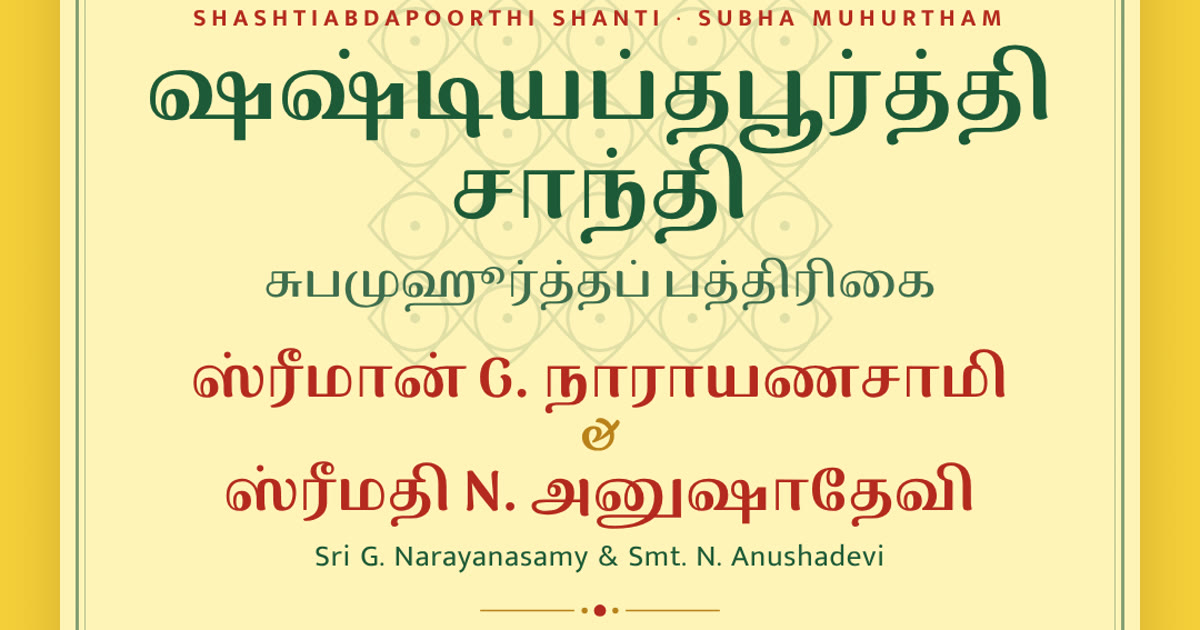
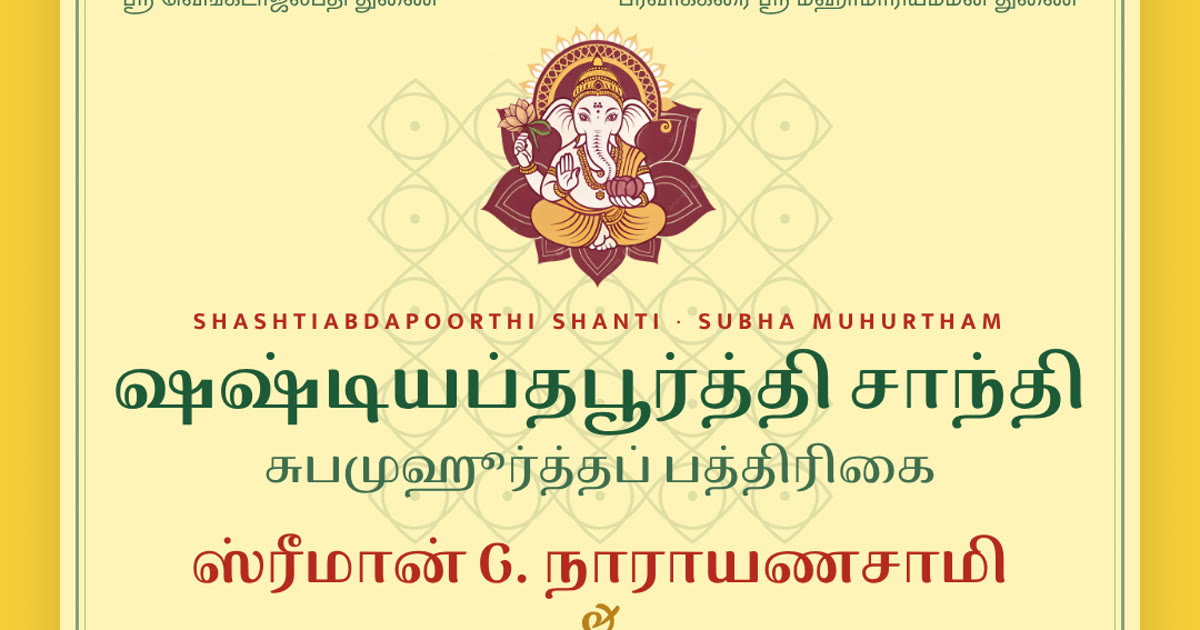
Vinayak

Changed region(s): [[0.0925, 0.0, 0.925, 1.0]]

diff --git a/index.html b/index.html
@@ -70,9 +70,9 @@ main{max-width:720px;margin:0 auto;position:relative;z-index:2;display:flex;flex
 .kolam circle.dot{fill:var(--ink);stroke:none}
 .kolam .draw{stroke-dasharray:var(--len);stroke-dashoffset:0;animation:draw 3.2s ease-out both}
 @keyframes draw{from{stroke-dashoffset:var(--len)}}
-.lamp{width:128px;height:auto;position:relative}
-.ganesha .halo{transform-origin:70px 70px;animation:halo 3.5s ease-in-out infinite}
-@keyframes halo{50%{transform:scale(1.08);opacity:.75}}
+.lamp{width:220px;max-width:70%;height:auto;position:relative;filter:drop-shadow(0 4px 10px rgba(120,40,40,.15))}
+.ganesha .rays{transform-origin:100px 84px;animation:spin 80s linear infinite}
+@keyframes spin{to{transform:rotate(360deg)}}
 .flame{transform-origin:50% 100%;animation:flick 1.6s ease-in-out infinite}
 .flame:nth-of-type(2){animation-delay:.3s}.flame:nth-of-type(3){animation-delay:.6s}
 @keyframes flick{0%,100%{transform:scale(1,1)}40%{transform:scale(.92,1.08) skewX(2deg)}70%{transform:scale(1.04,.95) skewX(-2deg)}}
@@ -209,45 +209,7 @@ footer .u{font-family:var(--display);color:var(--kumkum);font-size:18px}
       <div><small>பரவாக்கரை ஸ்ரீ மஹாமாரியம்மன் துணை</small></div>
     </div>
 
-    <svg class="lamp ganesha" viewBox="0 0 140 150" aria-label="Vinayakar" role="img">
-  <defs>
-    <linearGradient id="gold" x1="0" x2="1"><stop offset="0" stop-color="#A8740F"/><stop offset=".5" stop-color="#F2C85A"/><stop offset="1" stop-color="#A8740F"/></linearGradient>
-    <radialGradient id="skin" cx=".45" cy=".35" r=".75"><stop offset="0" stop-color="#FBC77A"/><stop offset="1" stop-color="#E58E2E"/></radialGradient>
-    <radialGradient id="glow" cx=".5" cy=".5" r=".5"><stop offset=".55" stop-color="#FFF6C8" stop-opacity=".95"/><stop offset="1" stop-color="#FFF6C8" stop-opacity="0"/></radialGradient>
-  </defs>
-  <circle class="halo" cx="70" cy="70" r="66" fill="url(#glow)"/>
-  <g class="prabhai" fill="#B9821A">
-    <circle cx="70" cy="10" r="2.6"/><circle cx="100" cy="18" r="2.6"/><circle cx="122" cy="40" r="2.6"/><circle cx="130" cy="70" r="2.6"/>
-    <circle cx="40" cy="18" r="2.6"/><circle cx="18" cy="40" r="2.6"/><circle cx="10" cy="70" r="2.6"/>
-  </g>
-  <!-- ears -->
-  <path d="M50 52 C30 34 8 40 10 62 C11 78 24 92 44 86 C40 76 44 64 50 58Z" fill="url(#skin)" stroke="#9A5A12" stroke-width="1.6"/>
-  <path d="M90 52 C110 34 132 40 130 62 C129 78 116 92 96 86 C100 76 96 64 90 58Z" fill="url(#skin)" stroke="#9A5A12" stroke-width="1.6"/>
-  <path d="M22 56 C24 66 30 74 38 78" fill="none" stroke="#C06A1A" stroke-width="1.4" opacity=".7"/>
-  <path d="M118 56 C116 66 110 74 102 78" fill="none" stroke="#C06A1A" stroke-width="1.4" opacity=".7"/>
-  <!-- crown -->
-  <path d="M50 44 L52 26 Q60 22 62 12 L70 2 L78 12 Q80 22 88 26 L90 44Z" fill="url(#gold)" stroke="#8A5E0C" stroke-width="1.2"/>
-  <path d="M52 38 H88" stroke="#8A5E0C" stroke-width="1.2"/><circle cx="70" cy="30" r="3.2" fill="#B42A1F"/>
-  <circle cx="70" cy="2.5" r="2.4" fill="#B42A1F"/>
-  <!-- head -->
-  <path d="M48 46 Q70 38 92 46 Q98 62 90 76 Q80 86 70 86 Q60 86 50 76 Q42 62 48 46Z" fill="url(#skin)" stroke="#9A5A12" stroke-width="1.6"/>
-  <!-- vibhuti + tilak -->
-  <path d="M58 50 H82 M58 54 H82 M59 58 H81" stroke="#FFF8E6" stroke-width="2" stroke-linecap="round"/>
-  <path d="M70 47 V58" stroke="#B42A1F" stroke-width="2.6" stroke-linecap="round"/>
-  <!-- eyes -->
-  <path d="M55 64 Q60 60 65 64 Q60 67 55 64Z" fill="#2B1A0A"/><path d="M75 64 Q80 60 85 64 Q80 67 75 64Z" fill="#2B1A0A"/>
-  <!-- tusk -->
-  <path d="M60 78 Q54 86 52 96 Q58 90 63 82Z" fill="#FFFBEF" stroke="#9A5A12" stroke-width="1.2"/>
-  <!-- small garland -->
-  <path d="M46 82 Q70 104 94 82" fill="none" stroke="#E9790C" stroke-width="4" stroke-dasharray="1 5" stroke-linecap="round"/>
-  <!-- trunk -->
-  <path class="trunk" d="M70 70 C70 92 62 104 66 120 C69 132 84 134 88 124 C91 116 84 110 79 115" fill="none" stroke="#9A5A12" stroke-width="15" stroke-linecap="round"/>
-  <path class="trunk" d="M70 70 C70 92 62 104 66 120 C69 132 84 134 88 124 C91 116 84 110 79 115" fill="none" stroke="url(#skin)" stroke-width="12" stroke-linecap="round"/>
-  <path d="M65 92 Q70 94 74 92 M64 102 Q69 104 73 102 M65 112 Q69 114 73 112" fill="none" stroke="#C06A1A" stroke-width="1.3" opacity=".75"/>
-  <!-- modak -->
-  <path d="M96 128 Q104 112 112 128 Q104 134 96 128Z" fill="#FFFBEF" stroke="#9A5A12" stroke-width="1.2"/>
-  <path d="M104 117 V128" stroke="#C9A35A" stroke-width="1"/>
-</svg>
+    <img class="lamp ganesha" src="vinayakar.png" width="640" height="640" alt="Vinayakar">
 
 
     <div class="eyebrow" style="position:relative">Shashtiabdapoorthi Shanti · 60 years</div>
